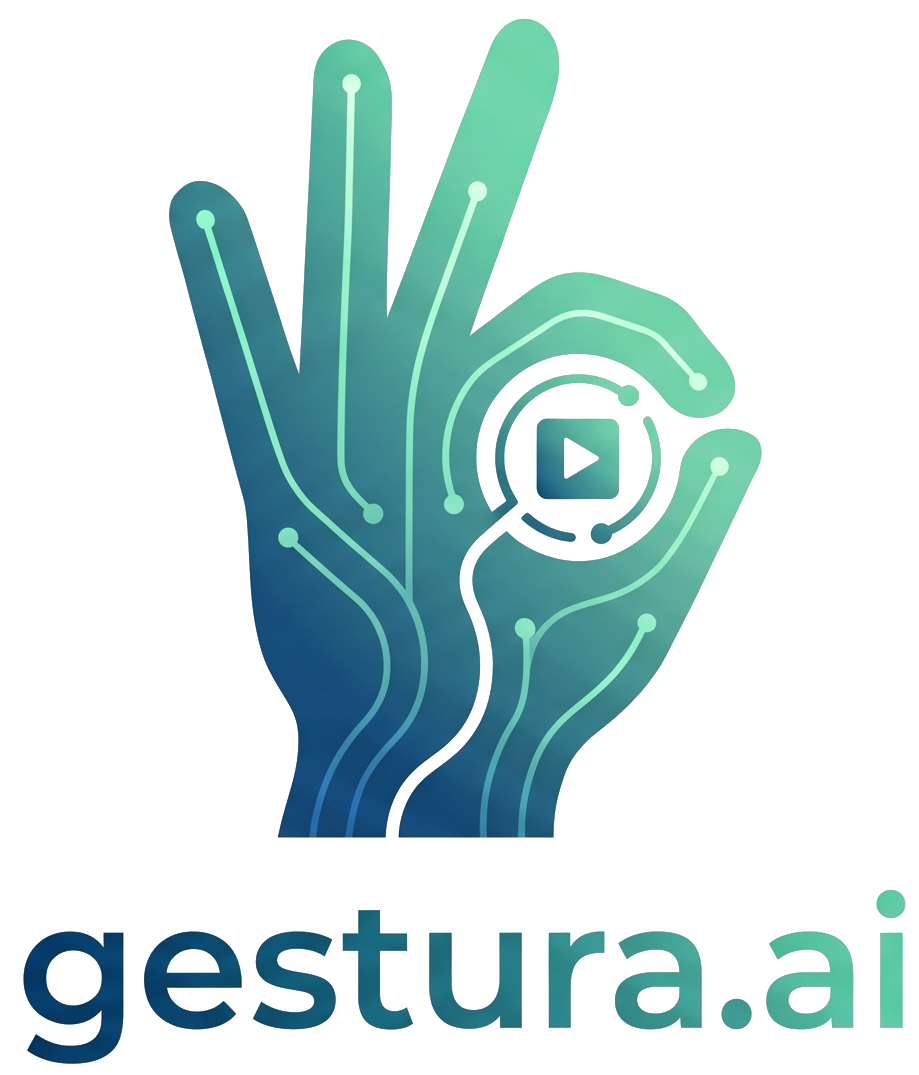
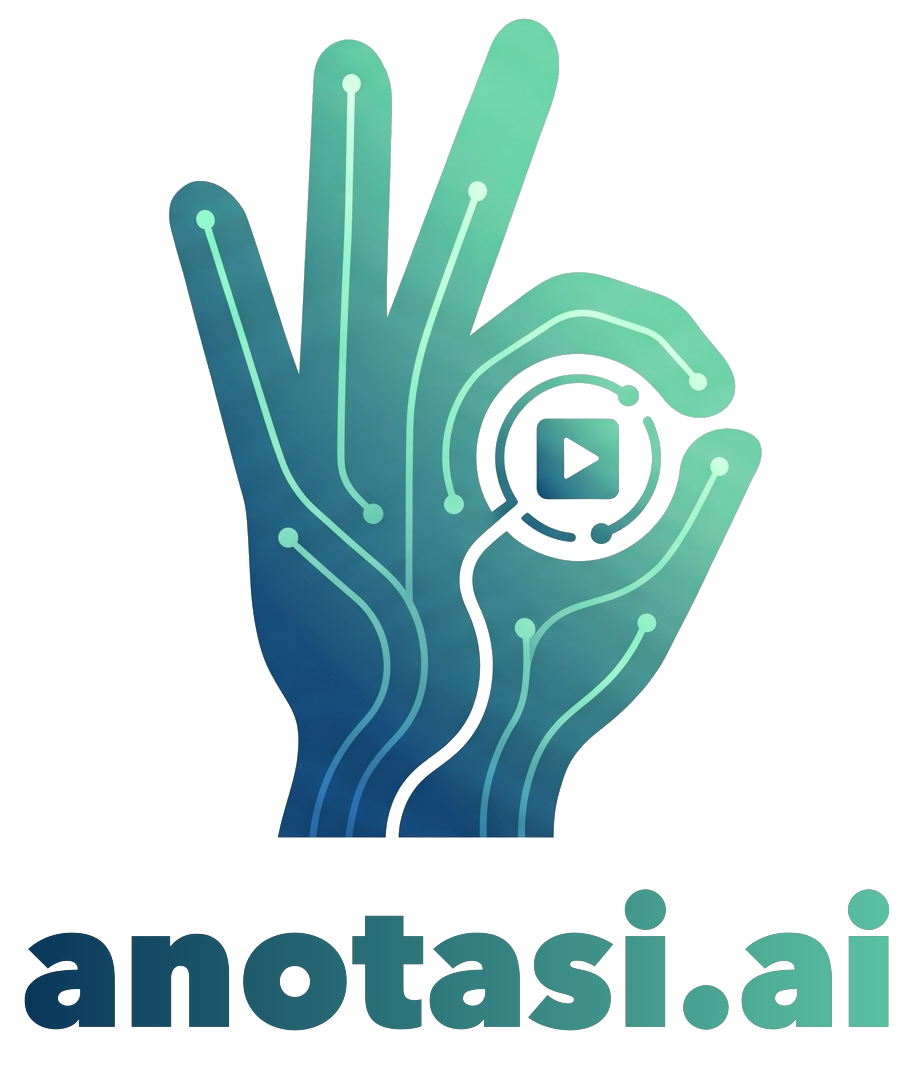
rebrand: retire the last Gestura.ai residue
The wordmark baked into icon.png still read "gestura.ai" — Login,
ForceChangePassword, and the Sidebar all render this file, so every
authenticated screen and the auth flow carried the old name. Kept the
hand artwork pixel-identical (cropped straight out of the source PNG)
and rendered a new "anotasi.ai" wordmark in the same gradient
(sampled from the original: navy #073358 -> mint #5ec6a5), weight, and
layout — same 919x1075 canvas so nothing downstream needs resizing.

Also swaps the literal "SIBI" token for "Bahasa Isyarat" across the
auth flow (login, force-change-password, forgot/reset-password,
verify-email) and the root metadata title/description, which is the
browser tab title on every one of those pages. Left "Sistem Isyarat
Bahasa Indonesia" alone where it already appears in full — it doesn't
contain the token being replaced.

Changed region(s): [[0.0, 0.8288, 1.0, 1.0]]

diff --git a/src/app/layout.tsx b/src/app/layout.tsx
@@ -17,9 +17,9 @@ const inter = Inter({
 });
 
 export const metadata: Metadata = {
-  title: 'Anotasi.ai — SIBI Dataset Platform',
+  title: 'Anotasi.ai — Bahasa Isyarat Dataset Platform',
   description:
-    'Sistem Informasi terpusat untuk orkestrasi dan kurasi dataset SIBI (Sistem Isyarat Bahasa Indonesia).',
+    'Sistem Informasi terpusat untuk orkestrasi dan kurasi dataset Bahasa Isyarat (Sistem Isyarat Bahasa Indonesia).',
 };
 
 export default function RootLayout({

diff --git a/src/app/login/page.tsx b/src/app/login/page.tsx
@@ -54,7 +54,7 @@ export default function LoginPage() {
           <h1 className="text-4xl md:text-5xl font-extrabold text-white leading-[1.15] tracking-tight">
             Orkestrasi Dataset <br/>
             <span className="text-transparent bg-clip-text bg-gradient-to-r from-emerald-400 to-teal-400">
-              SIBI Terpusat
+              Bahasa Isyarat Terpusat
             </span>
           </h1>
           <p className="text-slate-400 text-lg leading-relaxed">

diff --git a/src/app/force-change-password/page.tsx b/src/app/force-change-password/page.tsx
@@ -80,7 +80,7 @@ export default function ForceChangePasswordPage() {
             </span>
           </h1>
           <p className="text-slate-400 text-lg leading-relaxed">
-            Untuk menjaga keamanan platform dan dataset SIBI, Anda diwajibkan untuk mengganti
+            Untuk menjaga keamanan platform dan dataset Bahasa Isyarat, Anda diwajibkan untuk mengganti
             password sementara yang diberikan oleh administrator.
           </p>
         </div>

diff --git a/src/app/forgot-password/page.tsx b/src/app/forgot-password/page.tsx
@@ -154,7 +154,7 @@ export default function ForgotPasswordPage() {
           </div>
 
           <p className="text-center text-xs text-gray-400 mt-6">
-            &copy; 2026 Anotasi.ai · SIBI Dataset Platform
+            &copy; 2026 Anotasi.ai · Bahasa Isyarat Dataset Platform
           </p>
         </div>
       </div>

diff --git a/src/app/reset-password/page.tsx b/src/app/reset-password/page.tsx
@@ -237,7 +237,7 @@ function ResetPasswordForm() {
           </div>
 
           <p className="text-center text-xs text-gray-400 mt-6">
-            &copy; 2026 Anotasi.ai · SIBI Dataset Platform
+            &copy; 2026 Anotasi.ai · Bahasa Isyarat Dataset Platform
           </p>
         </div>
       </div>

diff --git a/src/app/verify-email/page.tsx b/src/app/verify-email/page.tsx
@@ -140,7 +140,7 @@ function VerifyEmailContent() {
         </div>
 
         <p className="text-center text-xs text-gray-400 mt-6">
-          &copy; 2026 Anotasi.ai · SIBI Dataset Platform
+          &copy; 2026 Anotasi.ai · Bahasa Isyarat Dataset Platform
         </p>
       </div>
     </div>
